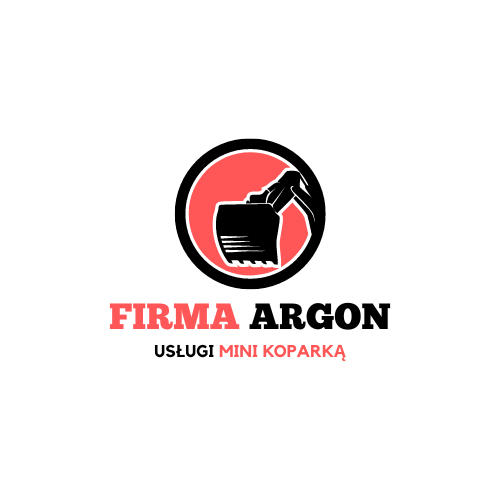
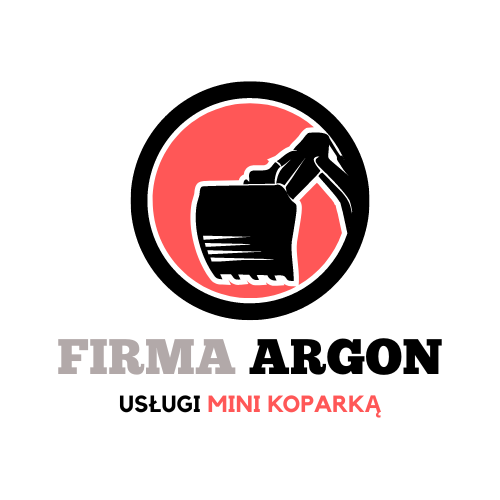
Colors changes

Changed region(s): [[0.12, 0.15, 0.9, 0.75], [0.24, 0.78, 0.78, 0.84]]

diff --git a/style.css b/style.css
@@ -7,7 +7,7 @@
 
 :root {
   --grey: rgb(138, 137, 138);
-  --red: rgb(221, 54, 54);
+  --red: rgb(236, 81, 81);
 }
 
 body {
@@ -19,7 +19,7 @@ body {
 /* Nav styling */
 
 .logo {
-  margin-top: 20px;
+  margin-top: 5px;
   padding-top: 30px;
   width: 13em;
 }
@@ -48,7 +48,7 @@ nav a {
   font-size: 1.5rem;
   font-weight: bold;
   position: relative;
-  padding: 0.2em;
+  padding: 0.5em 0.5em 0.3em 0.5em;
   color: var(--grey);
 }
 
@@ -155,6 +155,10 @@ h2 {
   .burger:hover {
     background-color: var(--red);
     border-radius: 10px;
+  }
+
+  .logo {
+    width: 10em;
   }
 
   nav ul {
@@ -306,7 +310,7 @@ h3 {
 }
 
 h4 {
-  color: var(--red);
+  color: var(--grey);
   font-size: 2em;
   display: flex;
   justify-content: center;
@@ -314,22 +318,22 @@ h4 {
 }
 
 .offer-cards {
-  height: 100vh;
+  height: 50vh;
   display: flex;
   justify-content: center;
 }
 
 .card {
-  background-color: var(--red);
+  background-color: var(--grey);
   width: 250px;
-  height: 400px;
+  height: 150px;
   margin: 10px;
   border-radius: 10px;
   cursor: pointer;
 }
 
 .card:hover {
-  background-color: var(--grey);
+  background-color: var(--red);
   transform: scale(1.05);
   transition: all 1s ease;
 }
@@ -340,11 +344,11 @@ h4 {
   font-size: 50px;
   display: flex;
   justify-content: center;
-  color: var(--grey);
+  color: var(--red);
 }
 
 .card:hover .card-image {
-  color: var(--red);
+  color: var(--grey);
 }
 
 .card h5 {
@@ -362,7 +366,7 @@ h4 {
 }
 
 .card button {
-  background-color: var(--grey);
+  background-color: var(--red);
   border: none;
   font-size: 20px;
   padding: 5px;
@@ -402,12 +406,12 @@ footer {
   bottom: 0;
   width: 100%;
   height: auto;
-  background: var(--grey);
+  background: var(--red);
   padding: 20px 50px;
 }
 
 h6 {
-  color: var(--red);
+  color: var(--grey);
   font-size: 1.5em;
   display: flex;
   justify-content: center;
@@ -436,5 +440,5 @@ footer .social-icon li a {
 
 footer .social-icon li a:hover {
   transform: translateY(-10px);
-  color: var(--red);
+  color: var(--grey);
 }

diff --git a/index.html b/index.html
@@ -72,31 +72,16 @@
         <div class="card">
           <div class="card-image"><i class="fa-solid fa-handshake"></i></div>
           <h5>Cena za 1h kopania</h5>
-          <p>
-            Lorem ipsum dolor sit amet consectetur adipisicing elit. Nam
-            repudiandae voluptatum distinctio, accusantium iure doloremque quos
-            est beatae eaque omnis ipsum vitae quis esse itaque ad dolores.
-          </p>
           <h5>120 zł netto</h5>
         </div>
         <div class="card">
           <div class="card-image"><i class="fa-solid fa-gear"></i></div>
           <h5 class="price">Cen za 3-5h kopania </h5>
-          <p>
-            Lorem ipsum, dolor sit amet consectetur adipisicing elit. Corrupti
-            earum eius sint velit alias quia animi eum sapiente nobis ab id
-            inventore enim quidem, quod provident beatae, nam dolores possimus!
-          </p>
           <h5 class="price">110 zł netto</h5>
         </div>
         <div class="card">
           <div class="card-image"><i class="fa-solid fa-gears"></i></i></div>
           <h5>Cena za 5h+ kopania</h5>
-          <p>
-            Lorem ipsum dolor, sit amet consectetur adipisicing elit. Aperiam
-            aliquam excepturi veniam repellendus beatae hic nostrum nihil, quidem
-            praesentium! Nihil repellat omnis quaerat et.
-          </p>
           <h5 class="price">Do ustalenia</h5>
         </div>
       </div>  
